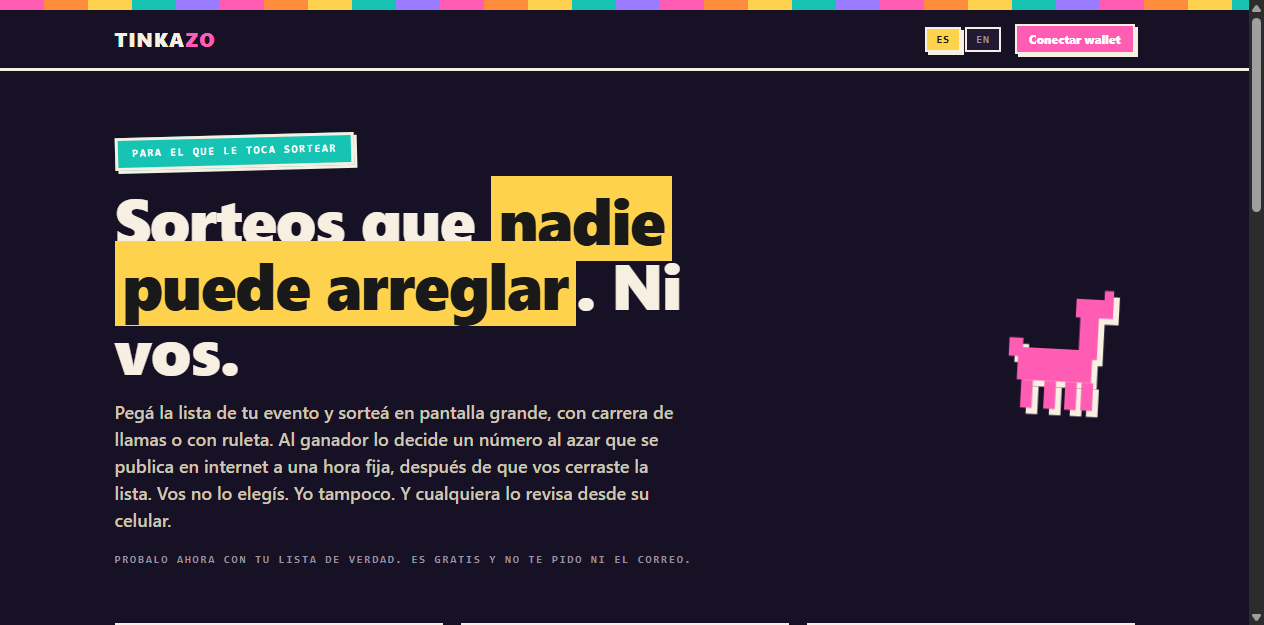
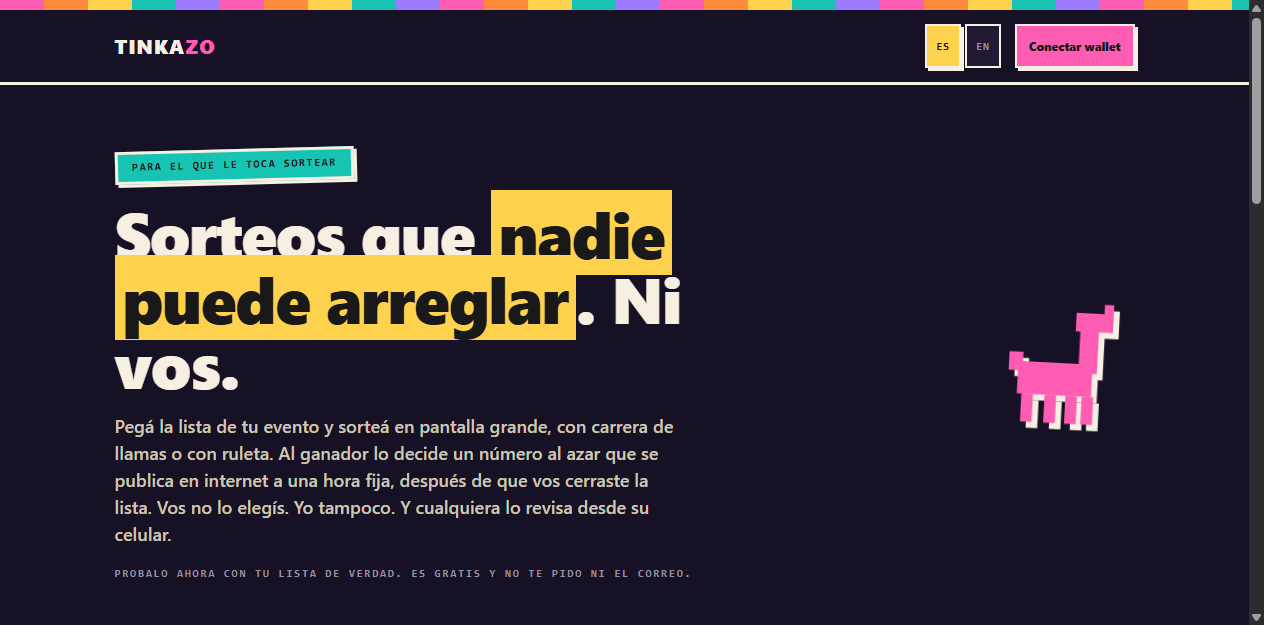
Lo que la auditoría de UX encontró roto
El selector de premios no se podía usar nunca. Vivía dentro del bloque de
la lista congelada, que está oculto hasta congelar, y al congelar se lo
deshabilitaba en la misma función. Quien iba a sortear tres premios en su
evento no podía. Ahora está junto a la lista, y sortear tres funciona.

Subir un CSV era imposible sin mouse: el input estaba con `hidden`, que
no recibe foco. Ahora queda fuera de pantalla pero en el orden de
tabulación.

Con drand caído el organizador miraba veintitrés segundos un botón mudo y
después un cuadro del navegador, proyectado en pantalla grande. Ahora el
aviso va en la página y dice en qué intento va, y al fallar el botón
ofrece reintentar.

Contraste: el texto blanco sobre magenta daba 3,74 a 1 y sobre teal 2,98.
Dos tokens nuevos y el gris de los textos secundarios más oscuro llevan
los fallos de 18 a 0 en tema claro y de 11 a 0 en oscuro.

También: anillo de foco visible, todos los controles a 44 px, la huella
de 64 caracteres ya no desborda la tarjeta en celular, el botón de
cancelar del modal dejó de salir sin estilar, congelar confirma que
congeló, y el botón apagado explica que hacen falta dos nombres.

Y el copy dejó de desmentirse: decía que anclar en Stellar venía en la
próxima versión mientras el botón de al lado ya lo hacía.

diff --git a/src/styles.css b/src/styles.css
@@ -1,7 +1,9 @@
   :root {
     color-scheme: light;
-    --paper: #fff6e9; --card: #ffffff; --ink: #191919; --ink2: #4b4437; --muted: #8a8378;
+    --paper: #fff6e9; --card: #ffffff; --ink: #191919; --ink2: #4b4437; --muted: #6b655b;
     --magenta: #e93d9c; --orange: #ff7a1a; --teal: #00a896; --yellow: #ffc629; --purple: #6c4ce0;
+    /* Texto sobre un color plano. El blanco no se lee sobre estos tonos. */
+    --on-accent: #191919; --on-purple: #ffffff;
     --bw: 3px; --sh: 6px 6px 0 var(--ink); --sh-sm: 3px 3px 0 var(--ink);
   }
   @media (prefers-color-scheme: dark) {
@@ -9,12 +11,14 @@
       color-scheme: dark;
       --paper: #171126; --card: #221a33; --ink: #f6efe2; --ink2: #cfc6b4; --muted: #97909f;
       --magenta: #ff5cb3; --orange: #ff8b3d; --teal: #17c3b2; --yellow: #ffd24d; --purple: #9b7bff;
+      --on-accent: #191919; --on-purple: #191919;
     }
   }
   :root[data-theme="dark"] {
     color-scheme: dark;
     --paper: #171126; --card: #221a33; --ink: #f6efe2; --ink2: #cfc6b4; --muted: #97909f;
     --magenta: #ff5cb3; --orange: #ff8b3d; --teal: #17c3b2; --yellow: #ffd24d; --purple: #9b7bff;
+      --on-accent: #191919; --on-purple: #191919;
   }
   @media (prefers-color-scheme: dark) {
     :root:not([data-theme="light"]) .hl {
@@ -46,18 +50,18 @@
   }
   .langs button.on { background: var(--yellow); color: #191919; box-shadow: var(--sh-sm); }
   .auth { display: flex; gap: 8px; align-items: center; }
-  .auth button.mini {
+  button.mini {
     background: var(--card); color: var(--ink); border: 2px solid var(--ink); box-shadow: var(--sh-sm);
     padding: 5px 12px; font-weight: 800; font-size: 12px; cursor: pointer; font-family: inherit;
   }
-  .auth button.mini.solid { background: var(--magenta); color: #fff; }
+  button.mini.solid { background: var(--magenta); color: var(--on-accent); }
   .auth .hello { font-size: 12px; font-weight: 700; color: var(--ink2); max-width: 140px; overflow: hidden; text-overflow: ellipsis; white-space: nowrap; }
   #wheel { max-width: 88vw; height: auto; }
   main { flex: 1; width: 100%; max-width: 1060px; margin: 0 auto; padding: 0 20px; }
   .hero { padding: 64px 0 40px; display: grid; grid-template-columns: 1fr auto; gap: 24px; align-items: center; }
   .hero-copy { display: flex; flex-direction: column; gap: 18px; align-items: flex-start; }
   .sticker {
-    display: inline-block; background: var(--teal); color: #fff; border: var(--bw) solid var(--ink);
+    display: inline-block; background: var(--teal); color: var(--on-accent); border: var(--bw) solid var(--ink);
     box-shadow: var(--sh-sm); padding: 5px 14px; font-family: ui-monospace, Consolas, monospace;
     font-size: 11px; letter-spacing: 0.14em; text-transform: uppercase; font-weight: 700; transform: rotate(-1.5deg);
   }
@@ -71,7 +75,7 @@
   .steps article:nth-child(1) .num { background: var(--magenta); }
   .steps article:nth-child(2) .num { background: var(--orange); }
   .steps article:nth-child(3) .num { background: var(--purple); }
-  .num { display: inline-block; color: #fff; border: 2px solid var(--ink); font-family: ui-monospace, Consolas, monospace; font-weight: 800; font-size: 12px; padding: 2px 9px; transform: rotate(-2deg); }
+  .num { display: inline-block; color: var(--on-accent); border: 2px solid var(--ink); font-family: ui-monospace, Consolas, monospace; font-weight: 800; font-size: 12px; padding: 2px 9px; transform: rotate(-2deg); }
   .steps h3 { font-size: 17px; margin-top: 10px; font-weight: 800; }
   .steps p { font-size: 13.5px; color: var(--ink2); margin-top: 6px; }
   section.block { background: var(--card); border: var(--bw) solid var(--ink); box-shadow: var(--sh); margin-bottom: 34px; }
@@ -86,7 +90,7 @@
   textarea:focus, input:focus, select:focus { outline: 3px solid var(--yellow); outline-offset: 0; }
   .row { display: flex; flex-wrap: wrap; gap: 12px; align-items: center; margin-top: 16px; }
   button.primary {
-    background: var(--magenta); color: #fff; border: var(--bw) solid var(--ink); box-shadow: var(--sh-sm);
+    background: var(--magenta); color: var(--on-accent); border: var(--bw) solid var(--ink); box-shadow: var(--sh-sm);
     padding: 12px 24px; font-weight: 800; font-size: 15px; cursor: pointer; transition: transform 0.08s, box-shadow 0.08s;
   }
   button.primary:hover:not(:disabled) { transform: translate(-2px, -2px); box-shadow: 5px 5px 0 var(--ink); }
@@ -101,7 +105,7 @@
   .netbadge {
     font-family: ui-monospace, Consolas, monospace; font-size: 10px; text-transform: uppercase;
     letter-spacing: 0.1em; font-weight: 800; border: 2px solid var(--ink); background: var(--teal);
-    color: #fff; padding: 3px 8px;
+    color: var(--on-accent); padding: 3px 8px;
   }
   .netbadge.bad { background: var(--orange); }
   .auth a.hello { text-decoration: none; }
@@ -125,7 +129,7 @@
   .wallet-row span { display: block; font-size: 12px; color: var(--ink2); margin-top: 3px; }
   .wallet-notice {
     position: fixed; left: 50%; bottom: 22px; transform: translateX(-50%); z-index: 80;
-    background: var(--teal); color: #fff; border: var(--bw) solid var(--ink); box-shadow: var(--sh);
+    background: var(--teal); color: var(--on-accent); border: var(--bw) solid var(--ink); box-shadow: var(--sh);
     padding: 10px 18px; font-size: 13px; font-weight: 700; max-width: 90vw; text-align: center;
   }
   .wallet-notice.bad { background: var(--orange); color: #191919; }
@@ -134,6 +138,7 @@
     border-left: 4px solid var(--purple); padding-left: 10px;
   }
   .txstatus.ok { border-left-color: var(--teal); }
+  .txstatus.bad { border-left-color: var(--orange); }
   .txstatus a { color: var(--ink); }
   .verdict { padding: 44px 0 26px; }
   .verdict h1 { font-size: clamp(30px, 5vw, 48px); line-height: 1.05; font-weight: 900; margin-top: 8px; }
@@ -146,7 +151,7 @@
     border-left: 5px solid var(--muted); padding: 8px 0 8px 12px;
     display: flex; flex-wrap: wrap; align-items: baseline; gap: 10px; font-size: 14px; font-weight: 700;
   }
-  .check span { font-size: 12px; color: var(--ink2); font-weight: 600; word-break: break-all; }
+  .check span { font-size: 12px; color: var(--ink2); font-weight: 600; overflow-wrap: anywhere; }
   .check.ok { border-left-color: var(--teal); }
   .check.bad { border-left-color: var(--orange); }
   .check.pending { border-left-color: var(--yellow); }
@@ -163,14 +168,14 @@
     border: 2px solid var(--ink); padding: 5px 12px; font-family: ui-monospace, Consolas, monospace;
     font-size: 11px; text-transform: uppercase; letter-spacing: 0.08em; font-weight: 700; background: var(--paper); color: var(--ink2);
   }
-  .chip.live { background: var(--teal); color: #fff; transform: rotate(-1deg); box-shadow: var(--sh-sm); }
+  .chip.live { background: var(--teal); color: var(--on-accent); transform: rotate(-1deg); box-shadow: var(--sh-sm); }
   .chip.soon { opacity: 0.55; }
   .gamepick { display: flex; gap: 10px; flex-wrap: wrap; }
   .gamepick button {
     border: 2px solid var(--ink); background: var(--paper); color: var(--ink2); padding: 9px 16px;
     font-weight: 800; font-size: 13px; cursor: pointer; font-family: inherit;
   }
-  .gamepick button.on { background: var(--purple); color: #fff; box-shadow: var(--sh-sm); transform: rotate(-1deg); }
+  .gamepick button.on { background: var(--purple); color: var(--on-purple); box-shadow: var(--sh-sm); transform: rotate(-1deg); }
   .gamepick button:disabled { opacity: 0.4; cursor: not-allowed; }
   .kpis { display: grid; grid-template-columns: repeat(auto-fit, minmax(160px, 1fr)); gap: 0; border-bottom: var(--bw) solid var(--ink); }
   .kpis > div { padding: 16px 22px; border-right: 2px dashed var(--ink); }
@@ -185,7 +190,7 @@
   .names i img { width: 22px; height: 22px; border: 1.5px solid var(--ink); background: #fff; }
   .names i:nth-child(5n+1) { transform: rotate(-1deg); }
   .names i:nth-child(5n+3) { transform: rotate(1.2deg); }
-  .entity { font-family: ui-monospace, Consolas, monospace; font-size: 12px; color: var(--muted); line-height: 1.7; word-break: break-all; }
+  .entity { font-family: ui-monospace, Consolas, monospace; font-size: 12px; color: var(--muted); line-height: 1.7; overflow-wrap: anywhere; }
   .wheel-wrap { display: none; text-align: center; padding: 10px 0; }
   .wheel-box { position: relative; display: inline-block; }
   .pointer {
@@ -238,3 +243,29 @@
   .commentary.pop { animation: popIn 0.28s; }
   @keyframes popIn { from { transform: translateX(-50%) scale(0.75); } to { transform: translateX(-50%) scale(1); } }
   @media (max-width: 700px) { .hero { grid-template-columns: 1fr; } .mascot { display: none; } .verify { grid-template-columns: 1fr; } }
+
+  /* ---------------------------------------------------------------- acceso
+     Los controles tienen bordes negros de 2 o 3 px, asi que un anillo de foco
+     pegado al borde desaparece dentro de el. El desplazamiento y el halo
+     amarillo lo mantienen visible tambien sobre la tarjeta del ganador. */
+  :focus-visible {
+    outline: 3px solid var(--ink);
+    outline-offset: 3px;
+    box-shadow: 0 0 0 6px var(--yellow);
+  }
+  /* Un dedo en un evento, con poca luz. 44 px es el minimo que se acierta. */
+  .langs button, button.mini, button.ghost, a.ghost, .gamepick button,
+  select, .st-actions button, label.chip.live {
+    min-height: 44px; display: inline-flex; align-items: center; justify-content: center;
+  }
+  /* Visible para el teclado y para el lector, invisible en pantalla. Con
+     `hidden` el input de archivo no recibia foco y el CSV era inalcanzable. */
+  .sr-only {
+    position: absolute; width: 1px; height: 1px; padding: 0; margin: -1px;
+    overflow: hidden; clip: rect(0 0 0 0); white-space: nowrap; border: 0;
+  }
+  label.chip.live:focus-within { outline: 3px solid var(--ink); outline-offset: 3px; box-shadow: 0 0 0 6px var(--yellow); }
+  /* Una huella de 64 caracteres desbordaba la tarjeta en celular. */
+  .note { word-break: break-word; overflow-wrap: anywhere; }
+  .entity { overflow-wrap: anywhere; }
+  #wheel { max-width: 100%; }

diff --git a/src/i18n.ts b/src/i18n.ts
@@ -16,6 +16,7 @@ export interface Dict {
   cWin: (n: string) => string;
   summary: (w: string, n: number, d: string, r: number, u: string) => string;
   drawIn: (mmss: string) => string;
+  drandTry: (i: number, n: number) => string;
   csvRows: (n: number) => string;
   tellBody: (w: string, prize: string, n: number, u: string) => string;
 }
@@ -37,6 +38,8 @@ export const T: Record<Lang, Dict> = {
     p1: "Participantes", p2: "Lista congelada", p3: "El sorteo",
     srcPaste: "Pegar lista", srcCsv: "Subir CSV", srcLuma: "Luma · pronto", srcMeetup: "Meetup · pronto",
     csvColumn: "¿Cuál columna tiene los nombres?",
+    freezeHint: "Hacen falta al menos dos nombres.",
+    frozenOk: "Lista congelada ✓",
     csvRows: (n) => (n === 1 ? "1 fila en el archivo" : `${n} filas en el archivo`),
     sample: "Cargar ejemplo", freeze: "Congelar lista", draw: "Lanzar el sorteo", winners: "Premios",
     gameLabel: "Juego", gameRace: "Carrera de llamas", gameStellar: "Carrera Stellar", gameWheel: "Ruleta",
@@ -57,12 +60,14 @@ export const T: Record<Lang, Dict> = {
       `Revisalo vos mismo, te toma diez segundos: ${u}\n\n` +
       `Sorteado con Tinkazo · https://tinkazo.vercel.app`,
     qrCaption: "Apuntá el celular y revisalo vos mismo",
-    nextTitle: "Lo que viene: el sorteo deja de depender de mí",
-    nextBody: "En la próxima versión, la huella de la lista y la ronda que va a decidir quedan anotadas en un contrato en Stellar. El contrato verifica la firma del faro por su cuenta y se queda con el resultado. Si mañana Tinkazo desaparece, el sorteo sigue ahí y cualquiera lo rehace. Hoy, en este demo, el sellado pasa en tu navegador.",
+    nextTitle: "El sorteo no depende de mí",
+    nextBody: "Si conectás una cuenta de Stellar, la huella de la lista y la ronda que va a decidir quedan anotadas en un contrato. El contrato verifica la firma del faro por su cuenta y se queda con el resultado. Cuesta tres centavos de dólar. Si mañana Tinkazo desaparece, ese sorteo sigue ahí y cualquiera lo rehace. Sin cuenta también sorteás, pero el comprobante lo sostiene tu palabra.",
     footL: "Tinkazo", footR: "Hecho en Bolivia por Nicolás",
     src: "fuente: pegado / csv", frozenAt: "congelada:", seed: "número público · ronda", drandLink: "ver la ronda pública ↗",
     placeholder: "Un nombre por línea…", winsPrize: "Se lleva:", skip: "Saltar",
     fetching: "Esperando el número público…",
+    drandTry: (i, n) => `El faro todavía no responde. Intento ${i} de ${n}…`,
+    drawRetry: "Reintentar el sorteo",
     badSig: "La firma de esa ronda no cuadra con la clave pública de quicknet. Probá de nuevo.",
     drawIn: (mmss) => `Sortear en ${mmss}`,
     prTitle: "Precios", prNote: "Verificar es gratis siempre. Lo que se cobra es el show.",
@@ -163,6 +168,8 @@ export const T: Record<Lang, Dict> = {
     p1: "Participants", p2: "Frozen list", p3: "The draw",
     srcPaste: "Paste list", srcCsv: "Upload CSV", srcLuma: "Luma · soon", srcMeetup: "Meetup · soon",
     csvColumn: "Which column has the names?",
+    freezeHint: "At least two names are needed.",
+    frozenOk: "List frozen ✓",
     csvRows: (n) => (n === 1 ? "1 row in the file" : `${n} rows in the file`),
     sample: "Load sample", freeze: "Freeze list", draw: "Run the draw", winners: "Prizes",
     gameLabel: "Game", gameRace: "Llama race", gameStellar: "Stellar race", gameWheel: "Roulette",
@@ -183,12 +190,14 @@ export const T: Record<Lang, Dict> = {
       `Check it yourself, it takes ten seconds: ${u}\n\n` +
       `Drawn with Tinkazo · https://tinkazo.vercel.app`,
     qrCaption: "Point your phone at it and check for yourself",
-    nextTitle: "What's next: the draw stops depending on me",
-    nextBody: "In the next version, the list fingerprint and the round that will decide go into a Stellar contract. The contract checks the beacon signature on its own and keeps the result. If Tinkazo disappears tomorrow, the draw is still there and anyone can run it again. Today, in this demo, the sealing happens in your browser.",
+    nextTitle: "The draw doesn't depend on me",
+    nextBody: "If you connect a Stellar account, the list fingerprint and the round that will decide go into a contract. The contract checks the beacon signature on its own and keeps the result. It costs three cents. If Tinkazo disappears tomorrow, that draw is still there and anyone can run it again. Without an account you can still draw, but the receipt rests on your word.",
     footL: "Tinkazo", footR: "Built in Bolivia by Nicolás",
     src: "source: paste / csv", frozenAt: "frozen:", seed: "public number · round", drandLink: "see the public round ↗",
     placeholder: "One name per line…", winsPrize: "Takes home:", skip: "Skip",
     fetching: "Waiting for the public number…",
+    drandTry: (i, n) => `The beacon is not answering yet. Attempt ${i} of ${n}…`,
+    drawRetry: "Try the draw again",
     badSig: "That round's signature doesn't check out against quicknet's public key. Try again.",
     drawIn: (mmss) => `Draw in ${mmss}`,
     prTitle: "Pricing", prNote: "Verifying is always free. What costs money is the show.",

diff --git a/index.html b/index.html
@@ -48,7 +48,7 @@
     <div class="body">
       <div class="row" style="margin: 0 0 14px">
         <span class="chip live" data-i="srcPaste">Pegar lista</span>
-        <label class="chip live" style="cursor: pointer"><span data-i="srcCsv">Subir CSV</span><input id="csv" type="file" accept=".csv,.txt" hidden /></label>
+        <label class="chip live" style="cursor: pointer"><span data-i="srcCsv">Subir CSV</span><input id="csv" type="file" accept=".csv,.txt" class="sr-only" /></label>
         <span class="chip soon" data-i="srcLuma">Luma · pronto</span>
         <span class="chip soon" data-i="srcMeetup">Meetup · pronto</span>
       </div>
@@ -63,9 +63,12 @@
         <input id="prize" type="text" maxlength="60" placeholder="Ej: Licencia JetBrains, libro, entrada…" data-i-ph="prizePh" />
       </div>
       <div class="row">
+        <label class="kicker" for="nw" data-i="winners">Premios</label>
+        <select id="nw" class="mono"><option>1</option><option>2</option><option>3</option></select>
         <button class="ghost" id="btn-sample" data-i="sample">Cargar ejemplo</button>
         <button class="primary" id="btn-freeze" data-i="freeze">Congelar lista</button>
       </div>
+      <p class="note" id="freeze-hint" data-i="freezeHint">Hacen falta al menos dos nombres.</p>
       <p class="txstatus" id="seal-status" style="display:none"></p>
       <div class="names" id="names"></div>
     </div>
@@ -89,8 +92,6 @@
           <button id="g-stellar" data-i="gameStellar">Carrera Stellar</button>
           <button id="g-wheel" data-i="gameWheel">Ruleta</button>
         </div>
-        <label class="kicker" for="nw" data-i="winners">Premios</label>
-        <select id="nw" class="mono"><option>1</option><option>2</option><option>3</option></select>
         <button class="primary" id="btn-draw" data-i="draw">Lanzar sorteo</button>
       </div>
       <p class="txstatus" id="draw-status" style="display:none"></p>
@@ -149,8 +150,8 @@
   </section>
 
   <section style="padding: 14px 0 30px">
-    <p class="kicker" data-i="nextTitle">Lo que viene: el sorteo queda guardado fuera de Tinkazo</p>
-    <p style="max-width: 680px; color: var(--ink2); font-size: 14px; margin-top: 8px" data-i="nextBody">En la próxima versión, el sello de la lista y una ronda futura del faro quedan registrados en un contrato en Stellar que verifica la firma del faro por sí mismo y guarda el resultado. Cualquiera podrá leerlo y recomputarlo aunque Tinkazo no esté en línea. Este demo hace el sellado en tu navegador.</p>
+    <h2 class="kicker" data-i="nextTitle">El sorteo no depende de mí</h2>
+    <p style="max-width: 680px; color: var(--ink2); font-size: 14px; margin-top: 8px" data-i="nextBody">Si conectás una cuenta de Stellar, la huella de la lista y la ronda que va a decidir quedan anotadas en un contrato. El contrato verifica la firma del faro por su cuenta y se queda con el resultado. Cuesta tres centavos de dólar. Si mañana Tinkazo desaparece, ese sorteo sigue ahí y cualquiera lo rehace. Sin cuenta también sorteás, pero el comprobante lo sostiene tu palabra.</p>
   </section>
 </main>
 
@@ -167,7 +168,7 @@
       <button id="st-skip" data-i="skip">Saltar</button>
     </div>
   </div>
-  <div class="commentary" id="commentary"></div>
+  <div class="commentary" id="commentary" role="status" aria-live="polite"></div>
 </div>
 
 <svg width="0" height="0" style="position:absolute">

diff --git a/src/ui/draw.ts b/src/ui/draw.ts
@@ -11,8 +11,11 @@ import { wheelSpin } from "../games/wheel";
 import { secondsToRound } from "./freeze";
 
 /** Obtiene la ronda objetivo, verifica su firma y selecciona (protocolo §2, §5). */
-async function resolveBeacon(round: number): Promise<Beacon> {
-  const { signature } = await fetchRound(round);
+async function resolveBeacon(
+  round: number,
+  onAttempt: (attempt: number, total: number) => void,
+): Promise<Beacon> {
+  const { signature } = await fetchRound(round, { onAttempt });
   if (!verifyRound(round, signature)) throw new Error("bad-signature");
   return { round, randomness: bytesToHex(randomnessOf(signature)), signature };
 }
@@ -23,13 +26,26 @@ export async function draw(): Promise<void> {
   btn.disabled = true;
   btn.textContent = t("fetching");
 
+  // Esto pasa con la sala mirando la pantalla grande. Si un relay no responde
+  // hay hasta doce intentos en veintitres segundos, y quedarse mudo todo ese
+  // rato es peor que el fallo. Un `alert()` del sistema, peor todavia: rompe el
+  // modo estadio y no hay forma de estilarlo.
+  const status = $("draw-status");
+  status.style.display = "block";
+  status.className = "txstatus";
+  status.textContent = t("fetching");
+
   let beacon: Beacon;
   try {
-    beacon = await resolveBeacon(app.frozen.round);
+    beacon = await resolveBeacon(app.frozen.round, (attempt, total) => {
+      if (attempt > 1) status.textContent = T[getLang()].drandTry(attempt, total);
+    });
+    status.style.display = "none";
   } catch (e) {
     btn.disabled = false;
-    btn.textContent = t("draw");
-    alert(t(e instanceof Error && e.message === "bad-signature" ? "badSig" : "drandDown"));
+    btn.textContent = t("drawRetry");
+    status.className = "txstatus bad";
+    status.textContent = t(e instanceof Error && e.message === "bad-signature" ? "badSig" : "drandDown");
     return;
   }
 

diff --git a/src/protocol/drand.ts b/src/protocol/drand.ts
@@ -65,7 +65,14 @@ export function roundUrl(round: number): string {
  */
 export async function fetchRound(
   round: number,
-  opts: { attempts?: number; delayMs?: number; signal?: AbortSignal; fetchFn?: typeof fetch } = {},
+  opts: {
+    attempts?: number;
+    delayMs?: number;
+    signal?: AbortSignal;
+    fetchFn?: typeof fetch;
+    /** Se llama antes de cada intento, para que la interfaz no quede muda. */
+    onAttempt?: (attempt: number, total: number) => void;
+  } = {},
 ): Promise<RoundSignature> {
   const attempts = opts.attempts ?? 12;
   const delayMs = opts.delayMs ?? 2_000;
@@ -73,6 +80,7 @@ export async function fetchRound(
   let lastError: unknown = null;
   for (let i = 0; i < attempts; i++) {
     const relay = QUICKNET.relays[i % QUICKNET.relays.length];
+    opts.onAttempt?.(i + 1, attempts);
     try {
       const res = await doFetch(`${relay}/v2/chains/${QUICKNET.chainHash}/rounds/${round}`, {
         signal: opts.signal ?? null,

diff --git a/src/ui/freeze.ts b/src/ui/freeze.ts
@@ -124,7 +124,8 @@ export async function freeze(): Promise<void> {
   $<HTMLInputElement>("prize").disabled = true;
   $<HTMLSelectElement>("nw").disabled = true;
   btn.disabled = true;
-  btn.textContent = raffleId !== undefined ? t("sealed") : t("freeze");
+  btn.textContent = raffleId !== undefined ? t("sealed") : t("frozenOk");
+  $("freeze-hint").style.display = "none";
   $("sec-frozen").style.display = "block";
   $("k-n").textContent = String(names.length);
   $("k-digest").textContent = hash.slice(0, 16) + "…";

diff --git a/src/ui/participants.ts b/src/ui/participants.ts
@@ -15,6 +15,8 @@ export function renderNames(): void {
     .map((n) => `<i><img src="${avatar(n, 44)}" alt="" loading="lazy" />${esc(n)}</i>`)
     .join("");
   $<HTMLButtonElement>("btn-freeze").disabled = names.length < 2 || !!app.frozen;
+  // Un boton apagado sin explicacion es lo que mas frena a quien recien llega.
+  $("freeze-hint").style.display = names.length < 2 && !app.frozen ? "block" : "none";
 }
 
 export function loadSample(): void {
